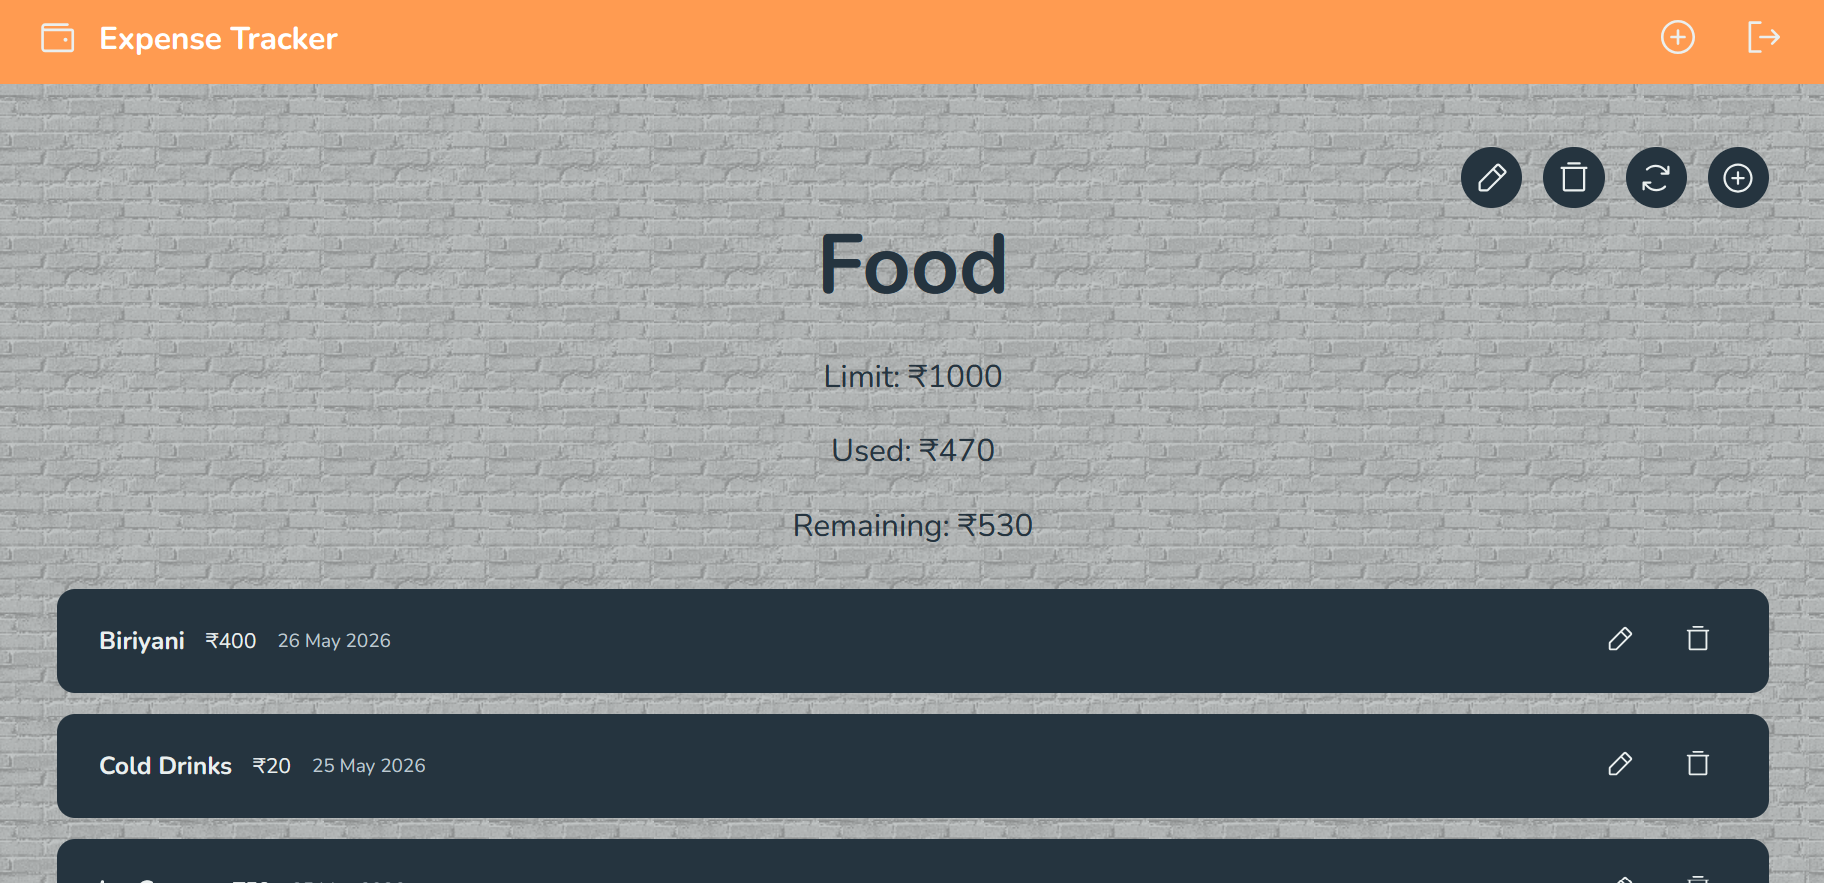
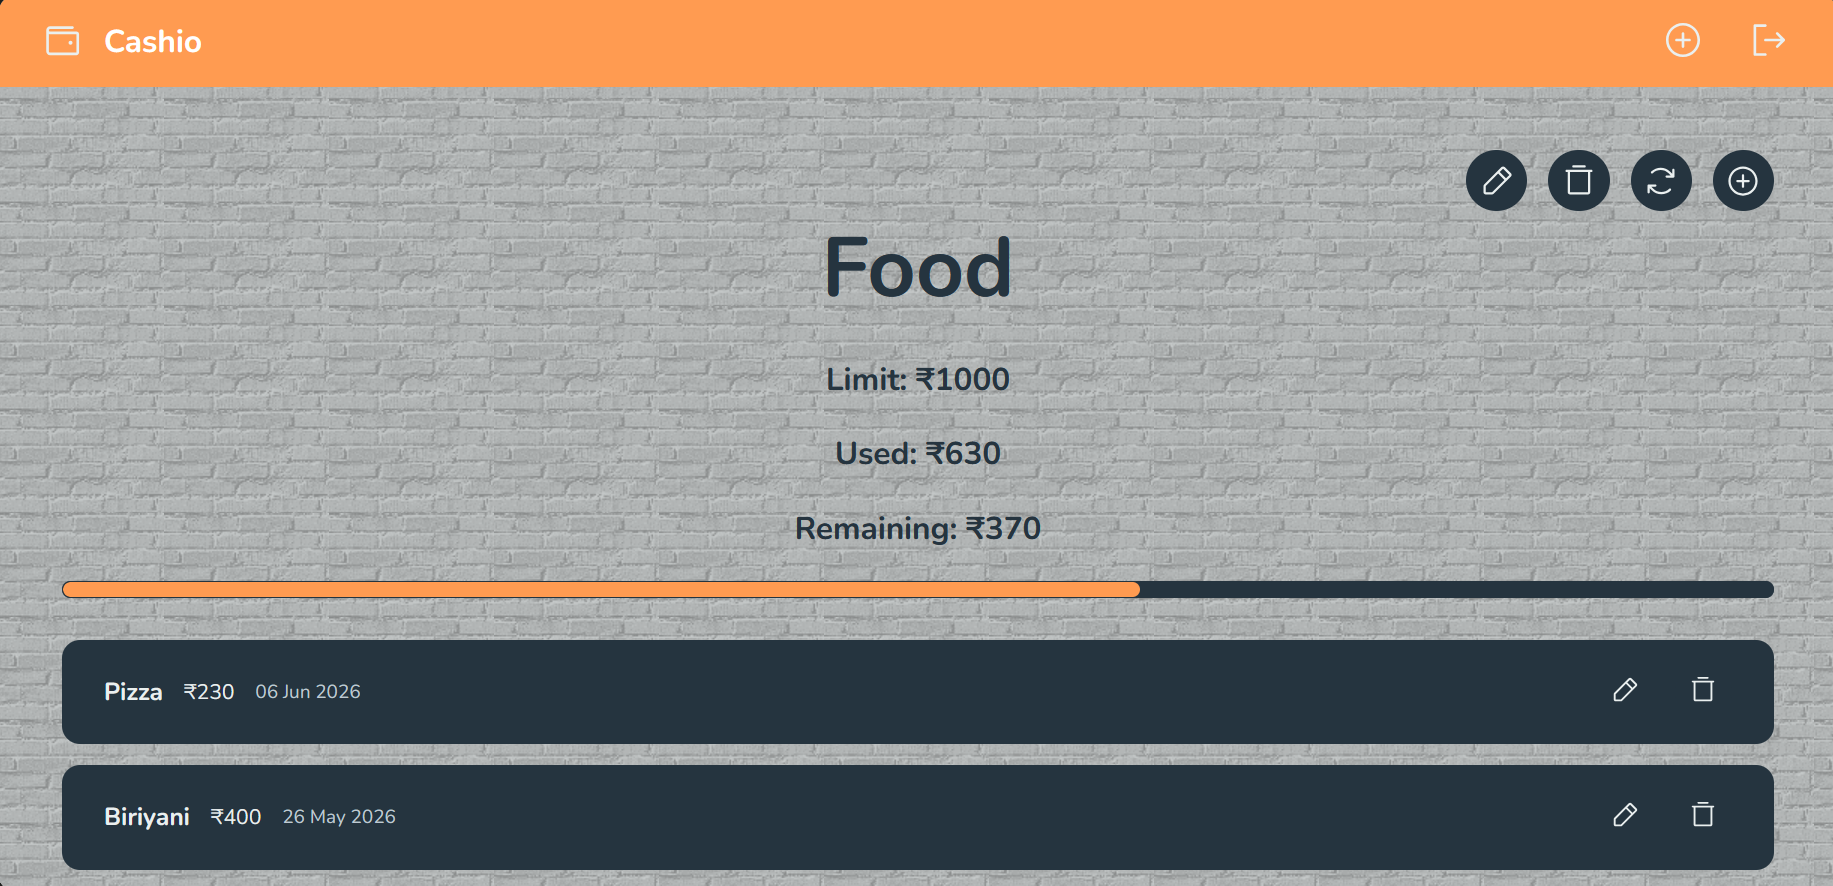
Update UI

diff --git a/client/src/pages/Category.jsx b/client/src/pages/Category.jsx
@@ -190,6 +190,15 @@ function Category()
 						<p>Used: ₹{category.utilized}</p>
 
 						<p>Remaining: ₹{category.remaining}</p>
+
+						<div className="progress-bar">
+							<div
+								className="progress-fill"
+								style={{
+									width: `${(category.utilized / category.limitAmount) * 100}%`,
+								}}
+							/>
+						</div>
 					</div>
 				</div>
 

diff --git a/client/src/styles/category.css b/client/src/styles/category.css
@@ -38,7 +38,8 @@
 {
 	color: var(--text);
 	margin-bottom: 2rem;
-	
+	font-weight: 700;
+
 	& h1
 	{
 		font-size: 4rem;
@@ -49,6 +50,12 @@
 	& p
 	{
 		font-size: 1.5rem;
+	}
+
+	& .progress-bar
+	{
+		background-color: var(--text);
+		border: 1px solid var(--text);
 	}
 }
 

diff --git a/client/src/components/Navbar.jsx b/client/src/components/Navbar.jsx
@@ -76,7 +76,7 @@ function Navbar()
 					>
 						<path d="M216,64H56a8,8,0,0,1,0-16H192a8,8,0,0,0,0-16H56A24,24,0,0,0,32,56V184a24,24,0,0,0,24,24H216a16,16,0,0,0,16-16V80A16,16,0,0,0,216,64Zm0,128H56a8,8,0,0,1-8-8V78.63A23.84,23.84,0,0,0,56,80H216Zm-48-60a12,12,0,1,1,12,12A12,12,0,0,1,168,132Z"></path>
 					</svg>
-					Expense Tracker
+					Cashio
 				</Link>
 
 				<div className="navbar-links">